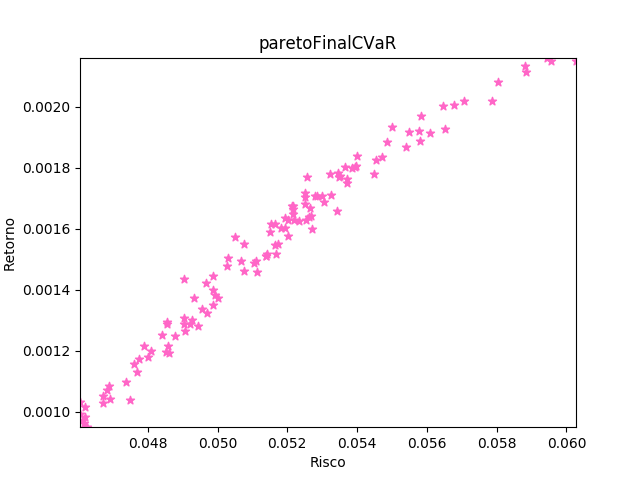
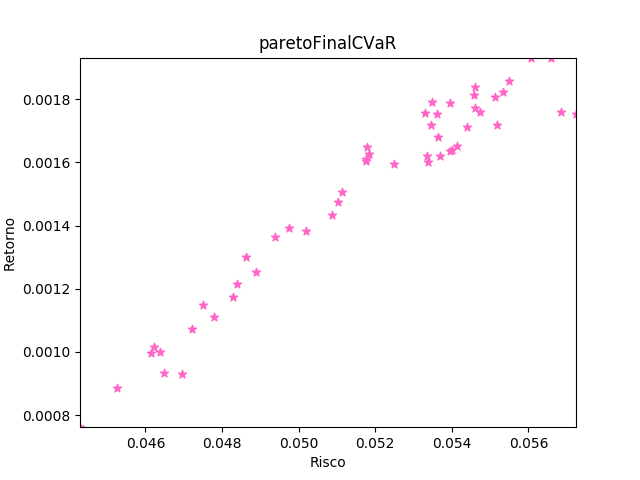
graficos

diff --git a/direto/nsga2.py b/direto/nsga2.py
@@ -248,7 +248,7 @@ def grafico_tempo(carteira_cvar, carteira_var, carteira_ewma, carteira_garch, ca
     plt.plot(range(len(retorno_acumulado(cotacoes_cvar))),retorno_acumulado(cotacoes_cvar),linestyle = 'solid', color = '#66ffa3', label = 'CVaR')
     plt.plot(range(len(retorno_acumulado(cotacoes_var))),retorno_acumulado(cotacoes_var), linestyle = (0, (3, 1, 1, 1)), color = '#ff66c7', label = 'VaR')
     plt.plot(range(len(retorno_acumulado(cotacoes_ewma))),retorno_acumulado(cotacoes_ewma), linestyle = 'dashdot',color = '#c457ff', label = 'EWMA')
-    plt.plot(range(len(retorno_acumulado(cotacoes_garch))),retorno_acumulado(cotacoes_garch), linestyle = 'dashed', color = '#ffeb57', label = 'GARCH')
+    plt.plot(range(len(retorno_acumulado(cotacoes_garch))),retorno_acumulado(cotacoes_garch), linestyle = 'dashed', color = 'r', label = 'GARCH')
     plt.plot(range(len(retorno_acumulado(cotacoes_lpm))),retorno_acumulado(cotacoes_lpm), linestyle = 'dotted',color = '#66c2ff', label = 'LPM')
     
     plt.plot(range(len(retorno_acumulado(lista_ibovespa_2017_2019))), retorno_acumulado(lista_ibovespa_2017_2019), color = 'black', label = 'Ibovespa')

diff --git a/direto/globais.py b/direto/globais.py
@@ -1,8 +1,8 @@
-TAM_POP = 120
+TAM_POP = 50
 CARDINALIDADE = 9
-ITERACOES = 130
+ITERACOES = 50
 PROBABILIDADE_MUTACAO = 0.1
-EXECUCOES = 30
+EXECUCOES = 15
 QUANTIDADE_ATIVOS = 62
 QUANTIDADE_METRICAS = 5
 lista_ativos_2015_2016 = []
